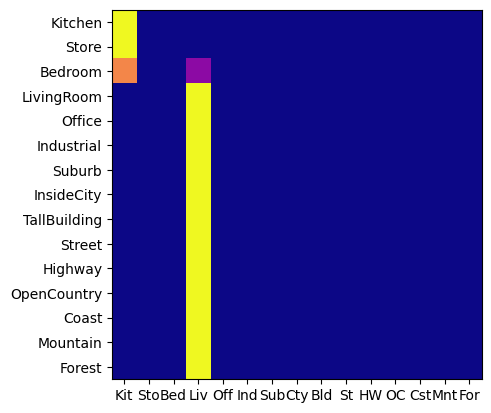
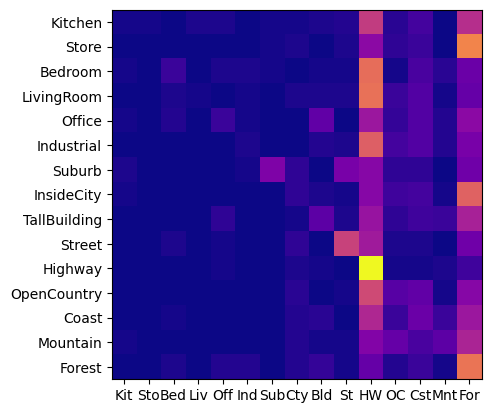
Working KNN

diff --git a/code/results_webpage/index.html b/code/results_webpage/index.html
@@ -36,7 +36,7 @@ h1 {
 <img src="confusion_matrix.png">
 
 <br>
-Accuracy (mean of diagonal of confusion matrix) is 0.133
+Accuracy (mean of diagonal of confusion matrix) is 0.188
 <p>
 
 <table border=0 cellpadding=4 cellspacing=1>
@@ -50,183 +50,183 @@ Accuracy (mean of diagonal of confusion matrix) is 0.133
 </tr>
 <tr>
 <td>Kitchen</td>
-<td>1.000</td>
-<td bgcolor=LightBlue><img src="thumbnails/Kitchen_image_0143.jpg" width=75 height=53></td>
-<td bgcolor=LightBlue><img src="thumbnails/Kitchen_image_0001.jpg" width=75 height=56></td>
-<td bgcolor=LightGreen><img src="thumbnails/Kitchen_image_0052.jpg" width=75 height=49></td>
-<td bgcolor=LightGreen><img src="thumbnails/Kitchen_image_0104.jpg" width=75 height=49></td>
-<td bgcolor=LightCoral><img src="thumbnails/Kitchen_image_0052.jpg" width=75 height=55><br><small>Bedroom</small></td>
-<td bgcolor=LightCoral><img src="thumbnails/Kitchen_image_0053.jpg" width=75 height=100><br><small>Store</small></td>
-<td bgcolor=#FFBB55></td>
-<td bgcolor=#FFBB55></td>
+<td>0.010</td>
+<td bgcolor=LightBlue><img src="thumbnails/Kitchen_image_0186.jpg" width=75 height=57></td>
+<td bgcolor=LightBlue><img src="thumbnails/Kitchen_image_0020.jpg" width=75 height=56></td>
+<td bgcolor=LightGreen><img src="thumbnails/Kitchen_image_0175.jpg" width=75 height=56></td>
+<td bgcolor=LightGreen></td>
+<td bgcolor=LightCoral><img src="thumbnails/Kitchen_image_0088.jpg" width=75 height=50><br><small>Suburb</small></td>
+<td bgcolor=LightCoral><img src="thumbnails/Kitchen_image_0017.jpg" width=75 height=75><br><small>InsideCity</small></td>
+<td bgcolor=#FFBB55><img src="thumbnails/Kitchen_image_0024.jpg" width=75 height=100><br><small>Forest</small></td>
+<td bgcolor=#FFBB55><img src="thumbnails/Kitchen_image_0008.jpg" width=75 height=56><br><small>Highway</small></td>
 </tr>
 <tr>
 <td>Store</td>
 <td>0.000</td>
-<td bgcolor=LightBlue><img src="thumbnails/Store_image_0092.jpg" width=75 height=56></td>
-<td bgcolor=LightBlue><img src="thumbnails/Store_image_0019.jpg" width=75 height=60></td>
+<td bgcolor=LightBlue><img src="thumbnails/Store_image_0243.jpg" width=75 height=50></td>
+<td bgcolor=LightBlue><img src="thumbnails/Store_image_0204.jpg" width=75 height=112></td>
 <td bgcolor=LightGreen></td>
 <td bgcolor=LightGreen></td>
+<td bgcolor=LightCoral><img src="thumbnails/Store_image_0097.jpg" width=75 height=56><br><small>Kitchen</small></td>
 <td bgcolor=LightCoral></td>
-<td bgcolor=LightCoral></td>
-<td bgcolor=#FFBB55><img src="thumbnails/Store_image_0077.jpg" width=75 height=65><br><small>Kitchen</small></td>
-<td bgcolor=#FFBB55><img src="thumbnails/Store_image_0009.jpg" width=75 height=56><br><small>Kitchen</small></td>
+<td bgcolor=#FFBB55><img src="thumbnails/Store_image_0088.jpg" width=75 height=56><br><small>Forest</small></td>
+<td bgcolor=#FFBB55><img src="thumbnails/Store_image_0045.jpg" width=75 height=56><br><small>Forest</small></td>
 </tr>
 <tr>
 <td>Bedroom</td>
-<td>0.000</td>
-<td bgcolor=LightBlue><img src="thumbnails/Bedroom_image_0079.jpg" width=75 height=57></td>
-<td bgcolor=LightBlue><img src="thumbnails/Bedroom_image_0078.jpg" width=75 height=65></td>
-<td bgcolor=LightGreen></td>
-<td bgcolor=LightGreen></td>
-<td bgcolor=LightCoral></td>
-<td bgcolor=LightCoral></td>
-<td bgcolor=#FFBB55><img src="thumbnails/Bedroom_image_0013.jpg" width=75 height=56><br><small>Kitchen</small></td>
-<td bgcolor=#FFBB55><img src="thumbnails/Bedroom_image_0021.jpg" width=75 height=50><br><small>Kitchen</small></td>
+<td>0.070</td>
+<td bgcolor=LightBlue><img src="thumbnails/Bedroom_image_0174.jpg" width=75 height=56></td>
+<td bgcolor=LightBlue><img src="thumbnails/Bedroom_image_0183.jpg" width=75 height=57></td>
+<td bgcolor=LightGreen><img src="thumbnails/Bedroom_image_0180.jpg" width=75 height=72></td>
+<td bgcolor=LightGreen><img src="thumbnails/Bedroom_image_0034.jpg" width=75 height=56></td>
+<td bgcolor=LightCoral><img src="thumbnails/Bedroom_image_0046.jpg" width=75 height=75><br><small>Forest</small></td>
+<td bgcolor=LightCoral><img src="thumbnails/Bedroom_image_0037.jpg" width=75 height=53><br><small>Office</small></td>
+<td bgcolor=#FFBB55><img src="thumbnails/Bedroom_image_0077.jpg" width=75 height=62><br><small>Highway</small></td>
+<td bgcolor=#FFBB55><img src="thumbnails/Bedroom_image_0059.jpg" width=75 height=52><br><small>Coast</small></td>
 </tr>
 <tr>
 <td>LivingRoom</td>
-<td>1.000</td>
-<td bgcolor=LightBlue><img src="thumbnails/LivingRoom_image_0164.jpg" width=75 height=57></td>
-<td bgcolor=LightBlue><img src="thumbnails/LivingRoom_image_0243.jpg" width=75 height=56></td>
-<td bgcolor=LightGreen><img src="thumbnails/LivingRoom_image_0140.jpg" width=75 height=48></td>
-<td bgcolor=LightGreen><img src="thumbnails/LivingRoom_image_0123.jpg" width=75 height=57></td>
-<td bgcolor=LightCoral><img src="thumbnails/LivingRoom_image_0040.jpg" width=75 height=75><br><small>InsideCity</small></td>
-<td bgcolor=LightCoral><img src="thumbnails/LivingRoom_image_0054.jpg" width=75 height=75><br><small>TallBuilding</small></td>
-<td bgcolor=#FFBB55></td>
-<td bgcolor=#FFBB55></td>
+<td>0.010</td>
+<td bgcolor=LightBlue><img src="thumbnails/LivingRoom_image_0060.jpg" width=75 height=56></td>
+<td bgcolor=LightBlue><img src="thumbnails/LivingRoom_image_0190.jpg" width=75 height=51></td>
+<td bgcolor=LightGreen><img src="thumbnails/LivingRoom_image_0117.jpg" width=75 height=50></td>
+<td bgcolor=LightGreen></td>
+<td bgcolor=LightCoral><img src="thumbnails/LivingRoom_image_0017.jpg" width=75 height=56><br><small>Kitchen</small></td>
+<td bgcolor=LightCoral><img src="thumbnails/LivingRoom_image_0116.jpg" width=75 height=56><br><small>Kitchen</small></td>
+<td bgcolor=#FFBB55><img src="thumbnails/LivingRoom_image_0095.jpg" width=75 height=56><br><small>Coast</small></td>
+<td bgcolor=#FFBB55><img src="thumbnails/LivingRoom_image_0086.jpg" width=75 height=56><br><small>Highway</small></td>
 </tr>
 <tr>
 <td>Office</td>
-<td>0.000</td>
-<td bgcolor=LightBlue><img src="thumbnails/Office_image_0002.jpg" width=75 height=51></td>
-<td bgcolor=LightBlue><img src="thumbnails/Office_image_0215.jpg" width=75 height=53></td>
-<td bgcolor=LightGreen></td>
-<td bgcolor=LightGreen></td>
-<td bgcolor=LightCoral></td>
-<td bgcolor=LightCoral></td>
-<td bgcolor=#FFBB55><img src="thumbnails/Office_image_0011.jpg" width=75 height=47><br><small>LivingRoom</small></td>
-<td bgcolor=#FFBB55><img src="thumbnails/Office_image_0169.jpg" width=75 height=62><br><small>LivingRoom</small></td>
+<td>0.070</td>
+<td bgcolor=LightBlue><img src="thumbnails/Office_image_0178.jpg" width=75 height=46></td>
+<td bgcolor=LightBlue><img src="thumbnails/Office_image_0099.jpg" width=75 height=45></td>
+<td bgcolor=LightGreen><img src="thumbnails/Office_image_0157.jpg" width=75 height=49></td>
+<td bgcolor=LightGreen><img src="thumbnails/Office_image_0146.jpg" width=75 height=47></td>
+<td bgcolor=LightCoral><img src="thumbnails/Office_image_0128.jpg" width=75 height=75><br><small>Forest</small></td>
+<td bgcolor=LightCoral><img src="thumbnails/Office_image_0015.jpg" width=75 height=75><br><small>TallBuilding</small></td>
+<td bgcolor=#FFBB55><img src="thumbnails/Office_image_0131.jpg" width=75 height=48><br><small>Forest</small></td>
+<td bgcolor=#FFBB55><img src="thumbnails/Office_image_0062.jpg" width=75 height=51><br><small>Highway</small></td>
 </tr>
 <tr>
 <td>Industrial</td>
-<td>0.000</td>
-<td bgcolor=LightBlue><img src="thumbnails/Industrial_image_0012.jpg" width=75 height=114></td>
-<td bgcolor=LightBlue><img src="thumbnails/Industrial_image_0227.jpg" width=75 height=50></td>
-<td bgcolor=LightGreen></td>
-<td bgcolor=LightGreen></td>
-<td bgcolor=LightCoral></td>
-<td bgcolor=LightCoral></td>
-<td bgcolor=#FFBB55><img src="thumbnails/Industrial_image_0037.jpg" width=75 height=56><br><small>LivingRoom</small></td>
-<td bgcolor=#FFBB55><img src="thumbnails/Industrial_image_0025.jpg" width=75 height=48><br><small>LivingRoom</small></td>
+<td>0.020</td>
+<td bgcolor=LightBlue><img src="thumbnails/Industrial_image_0128.jpg" width=75 height=44></td>
+<td bgcolor=LightBlue><img src="thumbnails/Industrial_image_0296.jpg" width=75 height=56></td>
+<td bgcolor=LightGreen><img src="thumbnails/Industrial_image_0016.jpg" width=75 height=56></td>
+<td bgcolor=LightGreen><img src="thumbnails/Industrial_image_0026.jpg" width=75 height=58></td>
+<td bgcolor=LightCoral><img src="thumbnails/Industrial_image_0019.jpg" width=75 height=75><br><small>Forest</small></td>
+<td bgcolor=LightCoral><img src="thumbnails/Industrial_image_0017.jpg" width=75 height=57><br><small>Bedroom</small></td>
+<td bgcolor=#FFBB55><img src="thumbnails/Industrial_image_0006.jpg" width=75 height=50><br><small>Highway</small></td>
+<td bgcolor=#FFBB55><img src="thumbnails/Industrial_image_0117.jpg" width=75 height=56><br><small>Mountain</small></td>
 </tr>
 <tr>
 <td>Suburb</td>
-<td>0.000</td>
-<td bgcolor=LightBlue><img src="thumbnails/Suburb_image_0099.jpg" width=75 height=50></td>
-<td bgcolor=LightBlue><img src="thumbnails/Suburb_image_0048.jpg" width=75 height=50></td>
-<td bgcolor=LightGreen></td>
-<td bgcolor=LightGreen></td>
-<td bgcolor=LightCoral></td>
-<td bgcolor=LightCoral></td>
-<td bgcolor=#FFBB55><img src="thumbnails/Suburb_image_0156.jpg" width=75 height=50><br><small>LivingRoom</small></td>
-<td bgcolor=#FFBB55><img src="thumbnails/Suburb_image_0028.jpg" width=75 height=50><br><small>LivingRoom</small></td>
+<td>0.210</td>
+<td bgcolor=LightBlue><img src="thumbnails/Suburb_image_0142.jpg" width=75 height=50></td>
+<td bgcolor=LightBlue><img src="thumbnails/Suburb_image_0089.jpg" width=75 height=50></td>
+<td bgcolor=LightGreen><img src="thumbnails/Suburb_image_0075.jpg" width=75 height=50></td>
+<td bgcolor=LightGreen><img src="thumbnails/Suburb_image_0045.jpg" width=75 height=50></td>
+<td bgcolor=LightCoral><img src="thumbnails/Suburb_image_0140.jpg" width=75 height=58><br><small>Store</small></td>
+<td bgcolor=LightCoral><img src="thumbnails/Suburb_image_0082.jpg" width=75 height=47><br><small>Bedroom</small></td>
+<td bgcolor=#FFBB55><img src="thumbnails/Suburb_image_0042.jpg" width=75 height=50><br><small>Highway</small></td>
+<td bgcolor=#FFBB55><img src="thumbnails/Suburb_image_0011.jpg" width=75 height=50><br><small>OpenCountry</small></td>
 </tr>
 <tr>
 <td>InsideCity</td>
-<td>0.000</td>
-<td bgcolor=LightBlue><img src="thumbnails/InsideCity_image_0279.jpg" width=75 height=75></td>
-<td bgcolor=LightBlue><img src="thumbnails/InsideCity_image_0009.jpg" width=75 height=75></td>
-<td bgcolor=LightGreen></td>
-<td bgcolor=LightGreen></td>
-<td bgcolor=LightCoral></td>
-<td bgcolor=LightCoral></td>
-<td bgcolor=#FFBB55><img src="thumbnails/InsideCity_image_0007.jpg" width=75 height=75><br><small>LivingRoom</small></td>
-<td bgcolor=#FFBB55><img src="thumbnails/InsideCity_image_0021.jpg" width=75 height=75><br><small>LivingRoom</small></td>
+<td>0.050</td>
+<td bgcolor=LightBlue><img src="thumbnails/InsideCity_image_0169.jpg" width=75 height=75></td>
+<td bgcolor=LightBlue><img src="thumbnails/InsideCity_image_0174.jpg" width=75 height=75></td>
+<td bgcolor=LightGreen><img src="thumbnails/InsideCity_image_0130.jpg" width=75 height=75></td>
+<td bgcolor=LightGreen><img src="thumbnails/InsideCity_image_0085.jpg" width=75 height=75></td>
+<td bgcolor=LightCoral><img src="thumbnails/InsideCity_image_0012.jpg" width=75 height=75><br><small>Coast</small></td>
+<td bgcolor=LightCoral><img src="thumbnails/InsideCity_image_0076.jpg" width=75 height=75><br><small>OpenCountry</small></td>
+<td bgcolor=#FFBB55><img src="thumbnails/InsideCity_image_0024.jpg" width=75 height=75><br><small>Forest</small></td>
+<td bgcolor=#FFBB55><img src="thumbnails/InsideCity_image_0048.jpg" width=75 height=75><br><small>Forest</small></td>
 </tr>
 <tr>
 <td>TallBuilding</td>
-<td>0.000</td>
-<td bgcolor=LightBlue><img src="thumbnails/TallBuilding_image_0020.jpg" width=75 height=75></td>
-<td bgcolor=LightBlue><img src="thumbnails/TallBuilding_image_0073.jpg" width=75 height=75></td>
-<td bgcolor=LightGreen></td>
-<td bgcolor=LightGreen></td>
-<td bgcolor=LightCoral></td>
-<td bgcolor=LightCoral></td>
-<td bgcolor=#FFBB55><img src="thumbnails/TallBuilding_image_0100.jpg" width=75 height=75><br><small>LivingRoom</small></td>
-<td bgcolor=#FFBB55><img src="thumbnails/TallBuilding_image_0017.jpg" width=75 height=75><br><small>LivingRoom</small></td>
+<td>0.140</td>
+<td bgcolor=LightBlue><img src="thumbnails/TallBuilding_image_0307.jpg" width=75 height=75></td>
+<td bgcolor=LightBlue><img src="thumbnails/TallBuilding_image_0273.jpg" width=75 height=75></td>
+<td bgcolor=LightGreen><img src="thumbnails/TallBuilding_image_0116.jpg" width=75 height=75></td>
+<td bgcolor=LightGreen><img src="thumbnails/TallBuilding_image_0040.jpg" width=75 height=75></td>
+<td bgcolor=LightCoral><img src="thumbnails/TallBuilding_image_0081.jpg" width=75 height=49><br><small>Office</small></td>
+<td bgcolor=LightCoral><img src="thumbnails/TallBuilding_image_0024.jpg" width=75 height=75><br><small>Coast</small></td>
+<td bgcolor=#FFBB55><img src="thumbnails/TallBuilding_image_0059.jpg" width=75 height=75><br><small>Office</small></td>
+<td bgcolor=#FFBB55><img src="thumbnails/TallBuilding_image_0101.jpg" width=75 height=75><br><small>Highway</small></td>
 </tr>
 <tr>
 <td>Street</td>
-<td>0.000</td>
-<td bgcolor=LightBlue><img src="thumbnails/Street_image_0257.jpg" width=75 height=75></td>
-<td bgcolor=LightBlue><img src="thumbnails/Street_image_0058.jpg" width=75 height=75></td>
-<td bgcolor=LightGreen></td>
-<td bgcolor=LightGreen></td>
-<td bgcolor=LightCoral></td>
-<td bgcolor=LightCoral></td>
-<td bgcolor=#FFBB55><img src="thumbnails/Street_image_0017.jpg" width=75 height=75><br><small>LivingRoom</small></td>
-<td bgcolor=#FFBB55><img src="thumbnails/Street_image_0140.jpg" width=75 height=75><br><small>LivingRoom</small></td>
+<td>0.410</td>
+<td bgcolor=LightBlue><img src="thumbnails/Street_image_0166.jpg" width=75 height=75></td>
+<td bgcolor=LightBlue><img src="thumbnails/Street_image_0065.jpg" width=75 height=75></td>
+<td bgcolor=LightGreen><img src="thumbnails/Street_image_0076.jpg" width=75 height=75></td>
+<td bgcolor=LightGreen><img src="thumbnails/Street_image_0128.jpg" width=75 height=75></td>
+<td bgcolor=LightCoral><img src="thumbnails/Street_image_0161.jpg" width=75 height=50><br><small>Suburb</small></td>
+<td bgcolor=LightCoral><img src="thumbnails/Street_image_0070.jpg" width=75 height=50><br><small>Suburb</small></td>
+<td bgcolor=#FFBB55><img src="thumbnails/Street_image_0022.jpg" width=75 height=75><br><small>Forest</small></td>
+<td bgcolor=#FFBB55><img src="thumbnails/Street_image_0132.jpg" width=75 height=75><br><small>Highway</small></td>
 </tr>
 <tr>
 <td>Highway</td>
-<td>0.000</td>
-<td bgcolor=LightBlue><img src="thumbnails/Highway_image_0118.jpg" width=75 height=75></td>
-<td bgcolor=LightBlue><img src="thumbnails/Highway_image_0219.jpg" width=75 height=75></td>
-<td bgcolor=LightGreen></td>
-<td bgcolor=LightGreen></td>
-<td bgcolor=LightCoral></td>
-<td bgcolor=LightCoral></td>
-<td bgcolor=#FFBB55><img src="thumbnails/Highway_image_0022.jpg" width=75 height=75><br><small>LivingRoom</small></td>
-<td bgcolor=#FFBB55><img src="thumbnails/Highway_image_0057.jpg" width=75 height=75><br><small>LivingRoom</small></td>
+<td>0.840</td>
+<td bgcolor=LightBlue><img src="thumbnails/Highway_image_0102.jpg" width=75 height=75></td>
+<td bgcolor=LightBlue><img src="thumbnails/Highway_image_0130.jpg" width=75 height=75></td>
+<td bgcolor=LightGreen><img src="thumbnails/Highway_image_0088.jpg" width=75 height=75></td>
+<td bgcolor=LightGreen><img src="thumbnails/Highway_image_0011.jpg" width=75 height=75></td>
+<td bgcolor=LightCoral><img src="thumbnails/Highway_image_0040.jpg" width=75 height=75><br><small>OpenCountry</small></td>
+<td bgcolor=LightCoral><img src="thumbnails/Highway_image_0044.jpg" width=75 height=56><br><small>Office</small></td>
+<td bgcolor=#FFBB55><img src="thumbnails/Highway_image_0015.jpg" width=75 height=75><br><small>InsideCity</small></td>
+<td bgcolor=#FFBB55><img src="thumbnails/Highway_image_0030.jpg" width=75 height=75><br><small>Forest</small></td>
 </tr>
 <tr>
 <td>OpenCountry</td>
-<td>0.000</td>
-<td bgcolor=LightBlue><img src="thumbnails/OpenCountry_image_0300.jpg" width=75 height=75></td>
-<td bgcolor=LightBlue><img src="thumbnails/OpenCountry_image_0088.jpg" width=75 height=75></td>
-<td bgcolor=LightGreen></td>
-<td bgcolor=LightGreen></td>
-<td bgcolor=LightCoral></td>
-<td bgcolor=LightCoral></td>
-<td bgcolor=#FFBB55><img src="thumbnails/OpenCountry_image_0006.jpg" width=75 height=75><br><small>LivingRoom</small></td>
-<td bgcolor=#FFBB55><img src="thumbnails/OpenCountry_image_0008.jpg" width=75 height=75><br><small>LivingRoom</small></td>
+<td>0.130</td>
+<td bgcolor=LightBlue><img src="thumbnails/OpenCountry_image_0152.jpg" width=75 height=75></td>
+<td bgcolor=LightBlue><img src="thumbnails/OpenCountry_image_0288.jpg" width=75 height=75></td>
+<td bgcolor=LightGreen><img src="thumbnails/OpenCountry_image_0086.jpg" width=75 height=75></td>
+<td bgcolor=LightGreen><img src="thumbnails/OpenCountry_image_0045.jpg" width=75 height=75></td>
+<td bgcolor=LightCoral><img src="thumbnails/OpenCountry_image_0096.jpg" width=75 height=75><br><small>TallBuilding</small></td>
+<td bgcolor=LightCoral><img src="thumbnails/OpenCountry_image_0024.jpg" width=75 height=50><br><small>Suburb</small></td>
+<td bgcolor=#FFBB55><img src="thumbnails/OpenCountry_image_0054.jpg" width=75 height=75><br><small>Forest</small></td>
+<td bgcolor=#FFBB55><img src="thumbnails/OpenCountry_image_0107.jpg" width=75 height=75><br><small>Highway</small></td>
 </tr>
 <tr>
 <td>Coast</td>
-<td>0.000</td>
-<td bgcolor=LightBlue><img src="thumbnails/Coast_image_0273.jpg" width=75 height=75></td>
-<td bgcolor=LightBlue><img src="thumbnails/Coast_image_0199.jpg" width=75 height=75></td>
-<td bgcolor=LightGreen></td>
-<td bgcolor=LightGreen></td>
-<td bgcolor=LightCoral></td>
-<td bgcolor=LightCoral></td>
-<td bgcolor=#FFBB55><img src="thumbnails/Coast_image_0061.jpg" width=75 height=75><br><small>LivingRoom</small></td>
-<td bgcolor=#FFBB55><img src="thumbnails/Coast_image_0099.jpg" width=75 height=75><br><small>LivingRoom</small></td>
+<td>0.170</td>
+<td bgcolor=LightBlue><img src="thumbnails/Coast_image_0250.jpg" width=75 height=75></td>
+<td bgcolor=LightBlue><img src="thumbnails/Coast_image_0248.jpg" width=75 height=75></td>
+<td bgcolor=LightGreen><img src="thumbnails/Coast_image_0031.jpg" width=75 height=75></td>
+<td bgcolor=LightGreen><img src="thumbnails/Coast_image_0001.jpg" width=75 height=75></td>
+<td bgcolor=LightCoral><img src="thumbnails/Coast_image_0015.jpg" width=75 height=56><br><small>LivingRoom</small></td>
+<td bgcolor=LightCoral><img src="thumbnails/Coast_image_0025.jpg" width=75 height=75><br><small>Mountain</small></td>
+<td bgcolor=#FFBB55><img src="thumbnails/Coast_image_0025.jpg" width=75 height=75><br><small>Forest</small></td>
+<td bgcolor=#FFBB55><img src="thumbnails/Coast_image_0089.jpg" width=75 height=75><br><small>Forest</small></td>
 </tr>
 <tr>
 <td>Mountain</td>
-<td>0.000</td>
-<td bgcolor=LightBlue><img src="thumbnails/Mountain_image_0067.jpg" width=75 height=75></td>
-<td bgcolor=LightBlue><img src="thumbnails/Mountain_image_0325.jpg" width=75 height=75></td>
-<td bgcolor=LightGreen></td>
-<td bgcolor=LightGreen></td>
-<td bgcolor=LightCoral></td>
-<td bgcolor=LightCoral></td>
-<td bgcolor=#FFBB55><img src="thumbnails/Mountain_image_0021.jpg" width=75 height=75><br><small>LivingRoom</small></td>
-<td bgcolor=#FFBB55><img src="thumbnails/Mountain_image_0055.jpg" width=75 height=75><br><small>LivingRoom</small></td>
+<td>0.140</td>
+<td bgcolor=LightBlue><img src="thumbnails/Mountain_image_0057.jpg" width=75 height=75></td>
+<td bgcolor=LightBlue><img src="thumbnails/Mountain_image_0111.jpg" width=75 height=75></td>
+<td bgcolor=LightGreen><img src="thumbnails/Mountain_image_0005.jpg" width=75 height=75></td>
+<td bgcolor=LightGreen><img src="thumbnails/Mountain_image_0091.jpg" width=75 height=75></td>
+<td bgcolor=LightCoral><img src="thumbnails/Mountain_image_0065.jpg" width=75 height=75><br><small>LivingRoom</small></td>
+<td bgcolor=LightCoral><img src="thumbnails/Mountain_image_0084.jpg" width=75 height=51><br><small>Industrial</small></td>
+<td bgcolor=#FFBB55><img src="thumbnails/Mountain_image_0052.jpg" width=75 height=75><br><small>InsideCity</small></td>
+<td bgcolor=#FFBB55><img src="thumbnails/Mountain_image_0009.jpg" width=75 height=75><br><small>Coast</small></td>
 </tr>
 <tr>
 <td>Forest</td>
-<td>0.000</td>
-<td bgcolor=LightBlue><img src="thumbnails/Forest_image_0300.jpg" width=75 height=75></td>
-<td bgcolor=LightBlue><img src="thumbnails/Forest_image_0108.jpg" width=75 height=75></td>
-<td bgcolor=LightGreen></td>
-<td bgcolor=LightGreen></td>
-<td bgcolor=LightCoral></td>
-<td bgcolor=LightCoral></td>
-<td bgcolor=#FFBB55><img src="thumbnails/Forest_image_0046.jpg" width=75 height=75><br><small>LivingRoom</small></td>
-<td bgcolor=#FFBB55><img src="thumbnails/Forest_image_0023.jpg" width=75 height=75><br><small>LivingRoom</small></td>
+<td>0.550</td>
+<td bgcolor=LightBlue><img src="thumbnails/Forest_image_0190.jpg" width=75 height=75></td>
+<td bgcolor=LightBlue><img src="thumbnails/Forest_image_0313.jpg" width=75 height=75></td>
+<td bgcolor=LightGreen><img src="thumbnails/Forest_image_0053.jpg" width=75 height=75></td>
+<td bgcolor=LightGreen><img src="thumbnails/Forest_image_0032.jpg" width=75 height=75></td>
+<td bgcolor=LightCoral><img src="thumbnails/Forest_image_0120.jpg" width=75 height=50><br><small>Suburb</small></td>
+<td bgcolor=LightCoral><img src="thumbnails/Forest_image_0042.jpg" width=75 height=75><br><small>Coast</small></td>
+<td bgcolor=#FFBB55><img src="thumbnails/Forest_image_0035.jpg" width=75 height=75><br><small>TallBuilding</small></td>
+<td bgcolor=#FFBB55><img src="thumbnails/Forest_image_0138.jpg" width=75 height=75><br><small>TallBuilding</small></td>
 </tr>
 <tr>
 <th>Category name</th>

diff --git a/code/student.py b/code/student.py
@@ -313,31 +313,29 @@ def nearest_neighbor_classify(train_image_feats, train_labels, test_image_feats,
         scipy.spatial.distance.cdist, np.argsort, scipy.stats.mode
     '''
 
-    k = 5
+    k = 30
     
     #TODO:
     # 1) Find the k closest training features to each test image feature by some distance, e.g., Euclidean (L2)
     # 2) Determine the labels of those k features
     # 3) Pick the most common label from the k
     # 4) Store that label in a list
-    close_labels = []
+    
     most_common_label = []
     #print(test_image_feats.shape)
     #print(train_image_feats.shape)
     dist = sci.spatial.distance.cdist(test_image_feats, train_image_feats, 'euclidean')
     for i in range(len(test_image_feats)):
-        #test_distance = test_image_feats[i].reshape(-1, 16*16)
-        #train_distance = train_image_feats.reshape(train_image_feats.shape[1], -1)
-        #print(test_distance.shape)
-        #print(train_distance.shape)
-        #distance = sci.spatial.distance.cdist(test_distance, train_distance, 'euclidean')[0]
+        close_labels = []
         distance = dist[i]
         indices = np.argsort(distance)[:k]
-        #train_labels_array = np.array(train_labels)
         for j in range(len(indices)):
             close_labels.append(train_labels[indices[j]])
+        #print(close_labels)
         most_common = sci.stats.mode(close_labels, keepdims = True)[0][0]
+        #print(most_common)
         most_common_label.append(most_common)
+        #print(most_common_label)
     
     #array = np.array(most_common_label)
     #print(array.shape)
